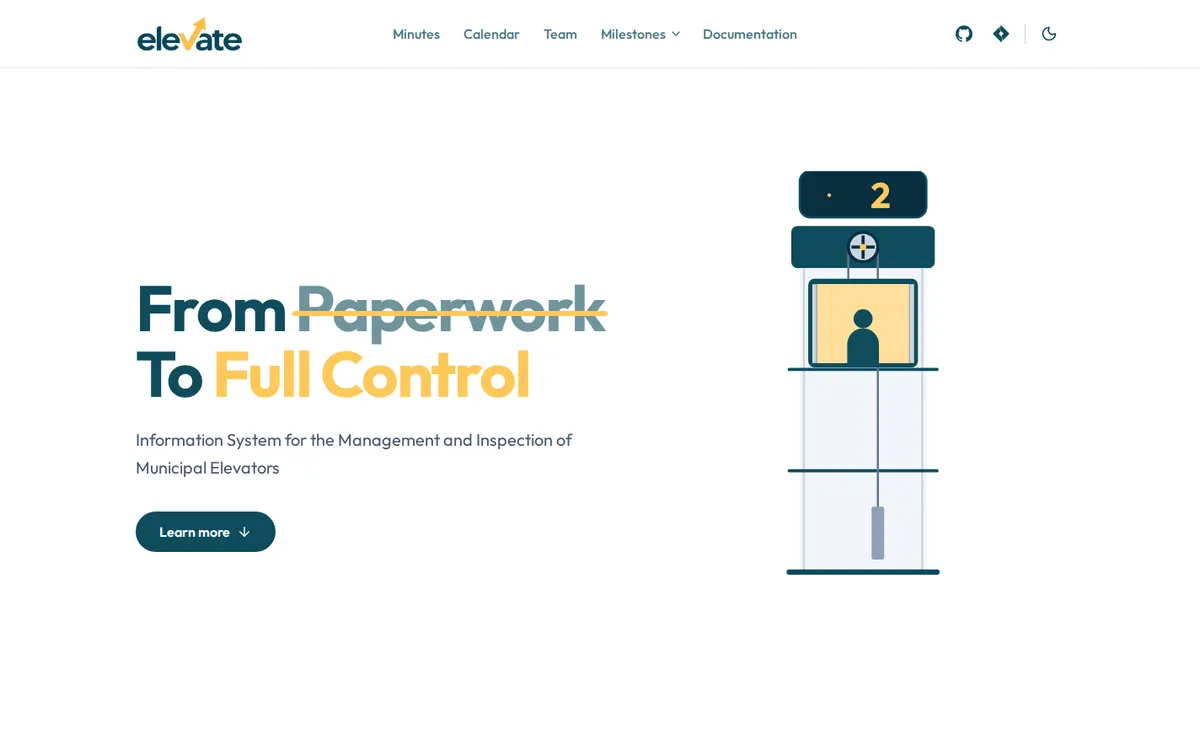
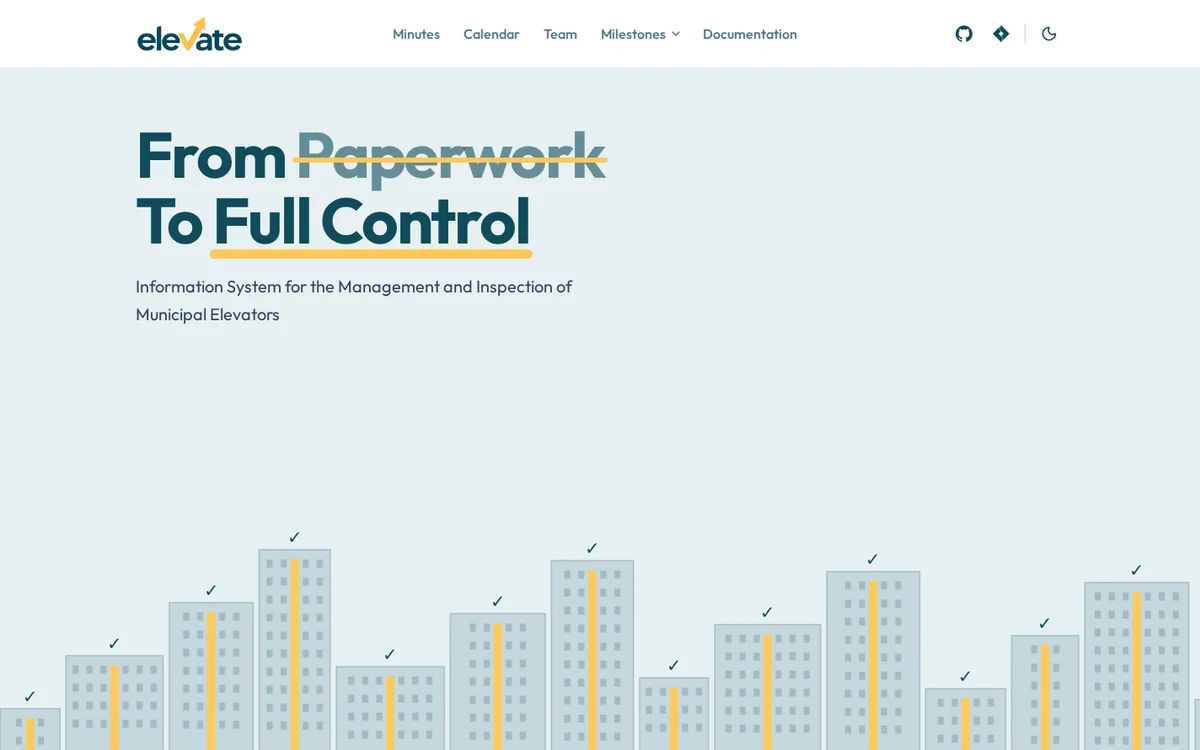
chore: update elevate screenshot and contact title

diff --git a/src/content.js b/src/content.js
@@ -159,7 +159,7 @@ export const content = {
       all: 'Ver todos os repositórios',
     },
     contact: {
-      title: 'Let’s Talk…',
+      title: 'Let’s talk…',
       cv: 'Descarregar CV',
     },
   },
@@ -288,7 +288,7 @@ export const content = {
       all: 'See all repositories',
     },
     contact: {
-      title: 'Let’s Talk…',
+      title: 'Let’s talk…',
       cv: 'Download CV',
     },
   },
